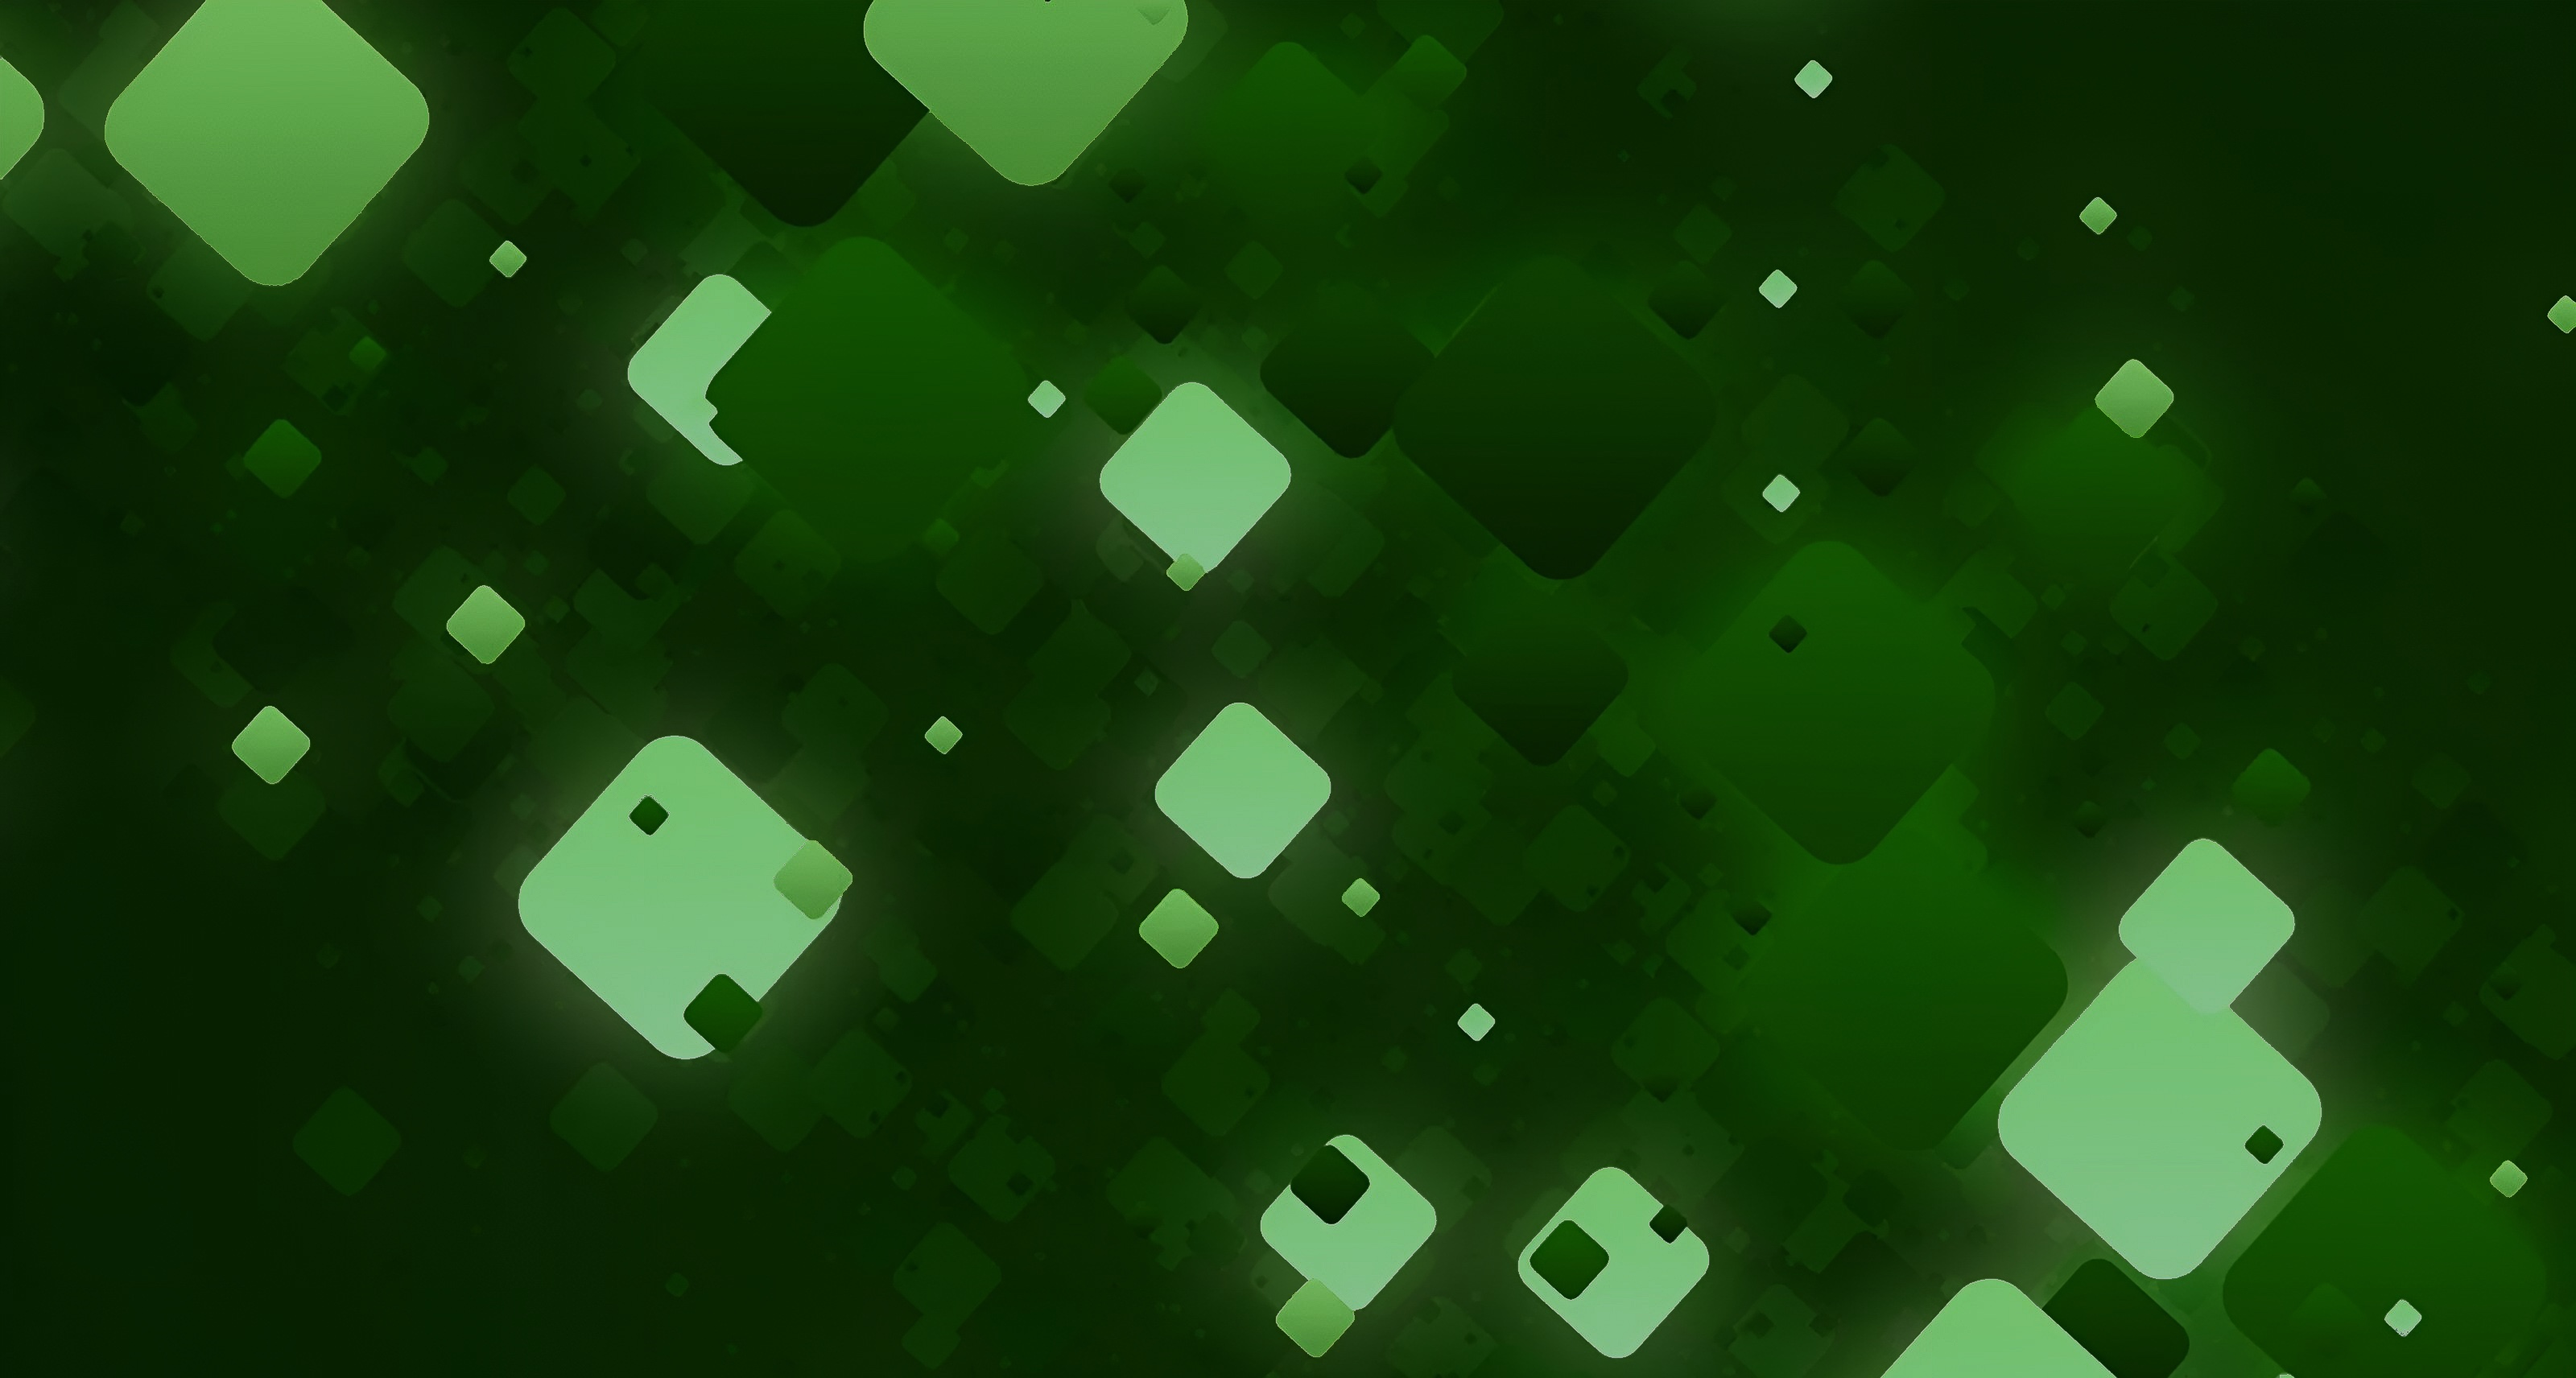
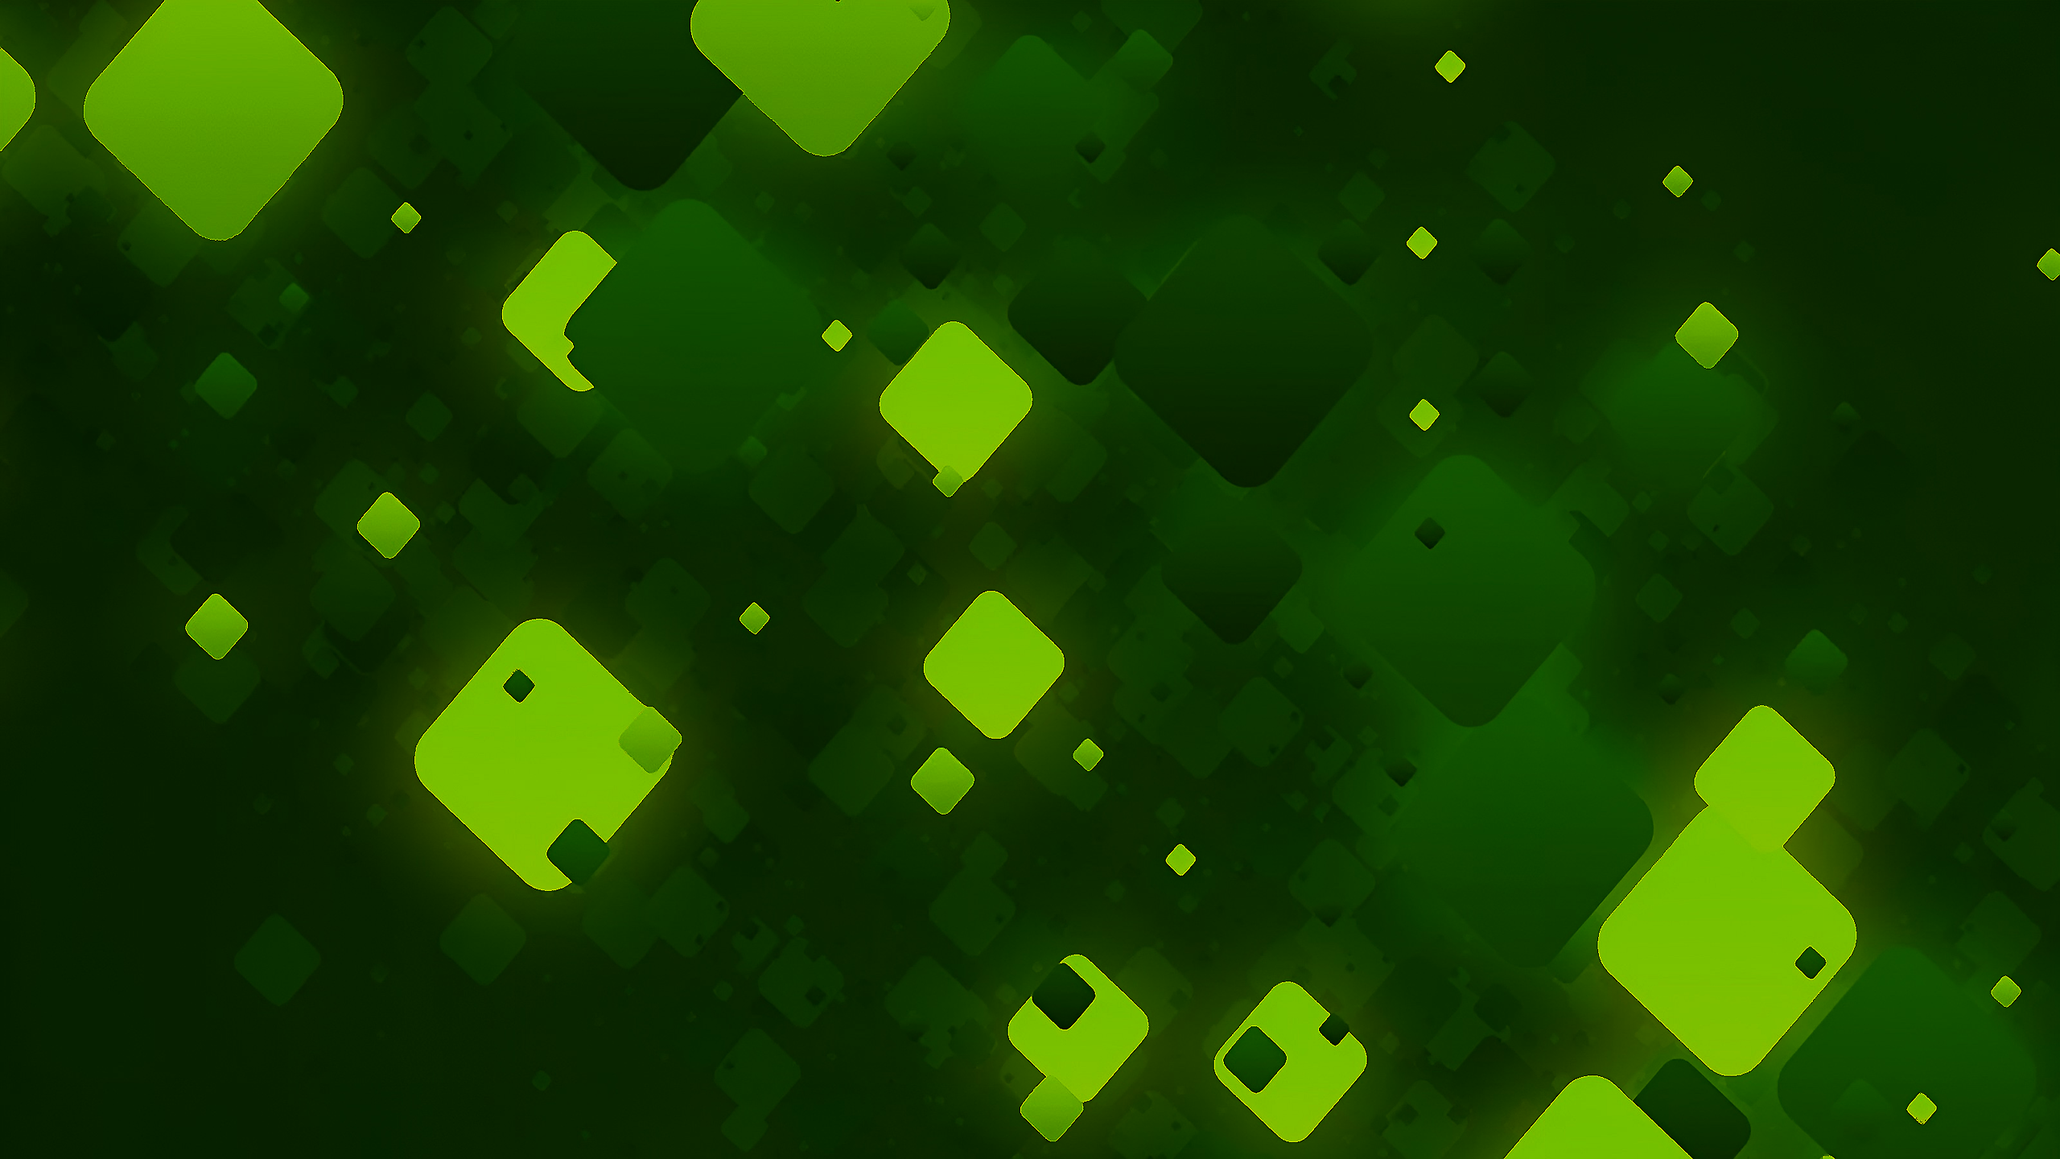
Changed Background Asset Type
Asset now uses .png
Asset added

diff --git a/RetroPass/SearchPage.xaml b/RetroPass/SearchPage.xaml
@@ -39,7 +39,7 @@
 
     <Grid Margin="0,0,0,0" Padding="0,0,0,0" ColumnSpacing="0" RowSpacing="0" Width="667" Height="423">
         <Grid.Background>
-            <ImageBrush ImageSource="/Assets/Background/SearchPage.jpg"/>
+            <ImageBrush ImageSource="/Assets/Background/SearchPage.png"/>
         </Grid.Background>
         <Grid.RowDefinitions>
             <RowDefinition Height="50.4" />
